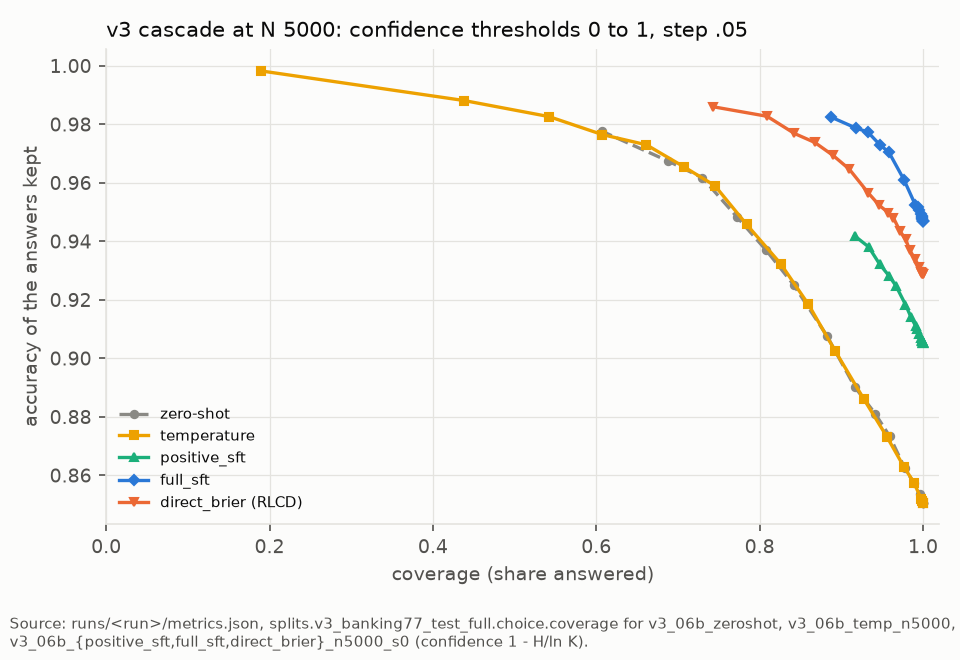
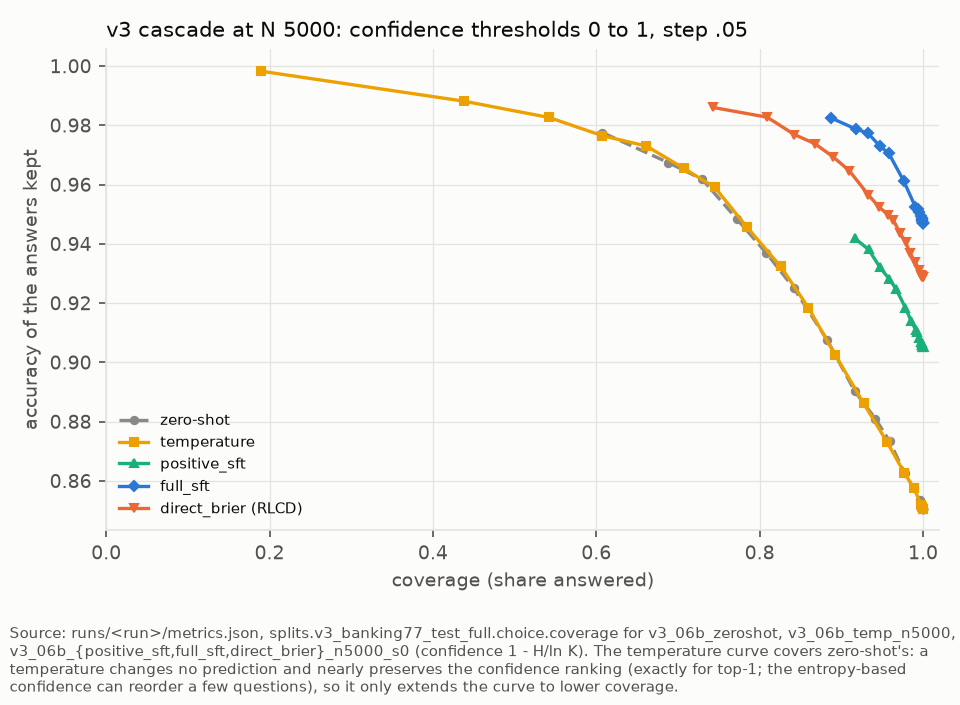
docs: coverage caption

diff --git a/scripts/make_figures.py b/scripts/make_figures.py
@@ -305,7 +305,7 @@ def v3_coverage(runs: Path, out: Path, written: list[Path]) -> None:
     sources = {"zero_shot": "v3_06b_zeroshot", "temperature": "v3_06b_temp_n5000", "positive_sft": "v3_06b_positive_sft_n5000_s0",
                "full_sft": "v3_06b_full_sft_n5000_s0", "direct_brier": "v3_06b_direct_brier_n5000_s0"}
     colors = v3_colors()
-    fig, ax = plt.subplots(figsize=(6.4, 4.4))
+    fig, ax = plt.subplots(figsize=(6.4, 4.7))
     for k, (key, name) in enumerate(V3_LEARNERS):
         block = load(runs / sources[key] / "metrics.json")["splits"][V3]["choice"]
         ax.plot(*coverage_points(block), color=colors[key], marker=MARKERS[k], markersize=3.5, linestyle="--" if key == "zero_shot" else "-", label=name)
@@ -314,9 +314,11 @@ def v3_coverage(runs: Path, out: Path, written: list[Path]) -> None:
     ax.set_ylabel("accuracy of the answers kept")
     ax.set_title("v3 cascade at N 5000: confidence thresholds 0 to 1, step .05", loc="left")
     ax.legend(loc="lower left", fontsize=7)
-    fig.tight_layout(rect=(0, 0.08, 1, 1))
+    fig.tight_layout(rect=(0, 0.13, 1, 1))
     caption(fig, "Source: runs/<run>/metrics.json, splits.v3_banking77_test_full.choice.coverage for v3_06b_zeroshot, v3_06b_temp_n5000, "
-                 "v3_06b_{positive_sft,full_sft,direct_brier}_n5000_s0 (confidence 1 - H/ln K).")
+                 "v3_06b_{positive_sft,full_sft,direct_brier}_n5000_s0 (confidence 1 - H/ln K). The temperature curve covers zero-shot's: "
+                 "a temperature changes no prediction and nearly preserves the confidence ranking (exactly for top-1; the entropy-based "
+                 "confidence can reorder a few questions), so it only extends the curve to lower coverage.")
     save(fig, out, "v3_coverage.png", written)
 
 
